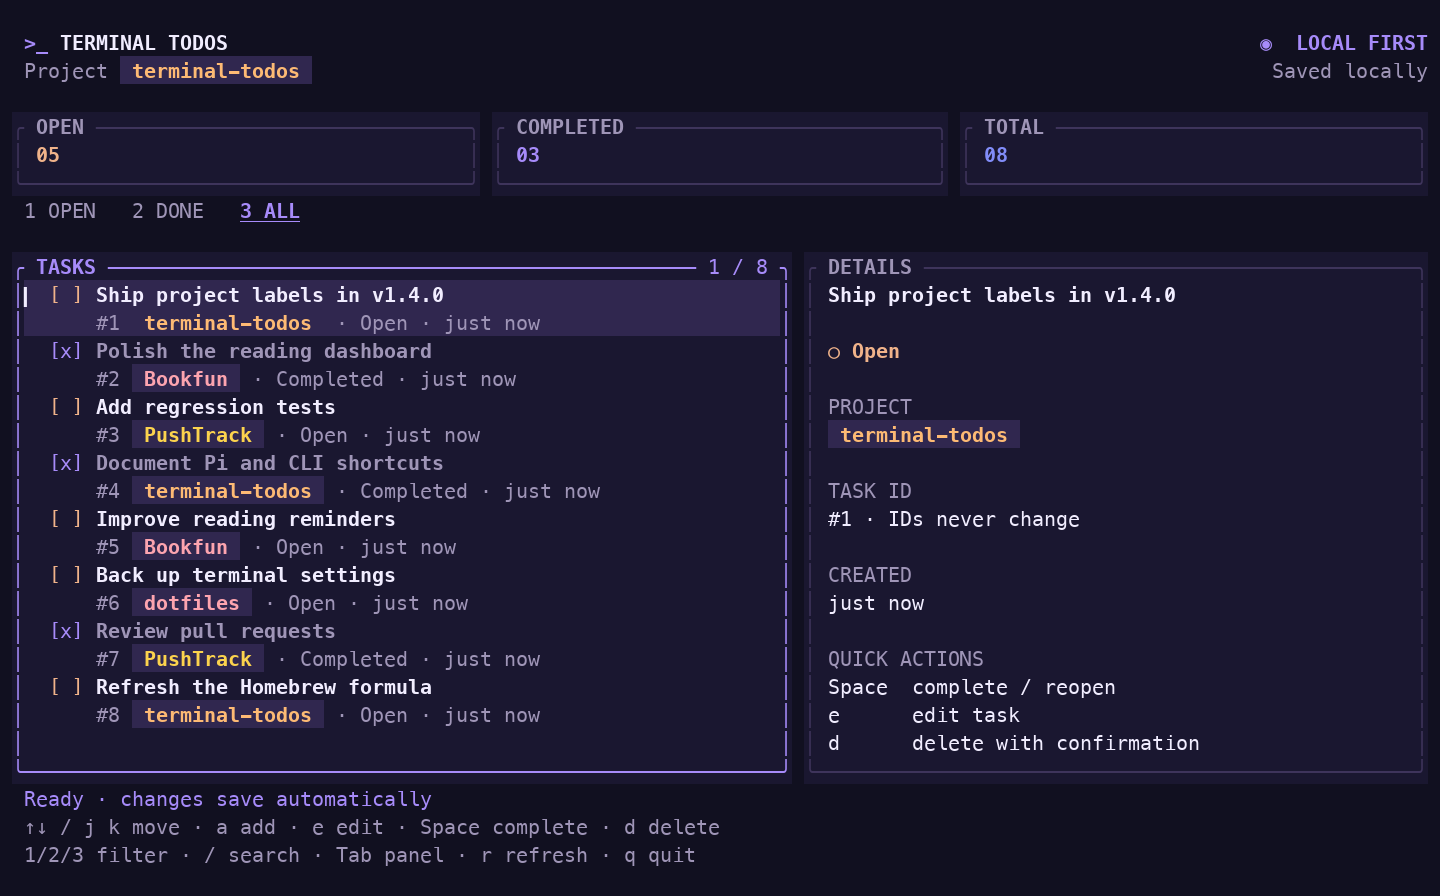
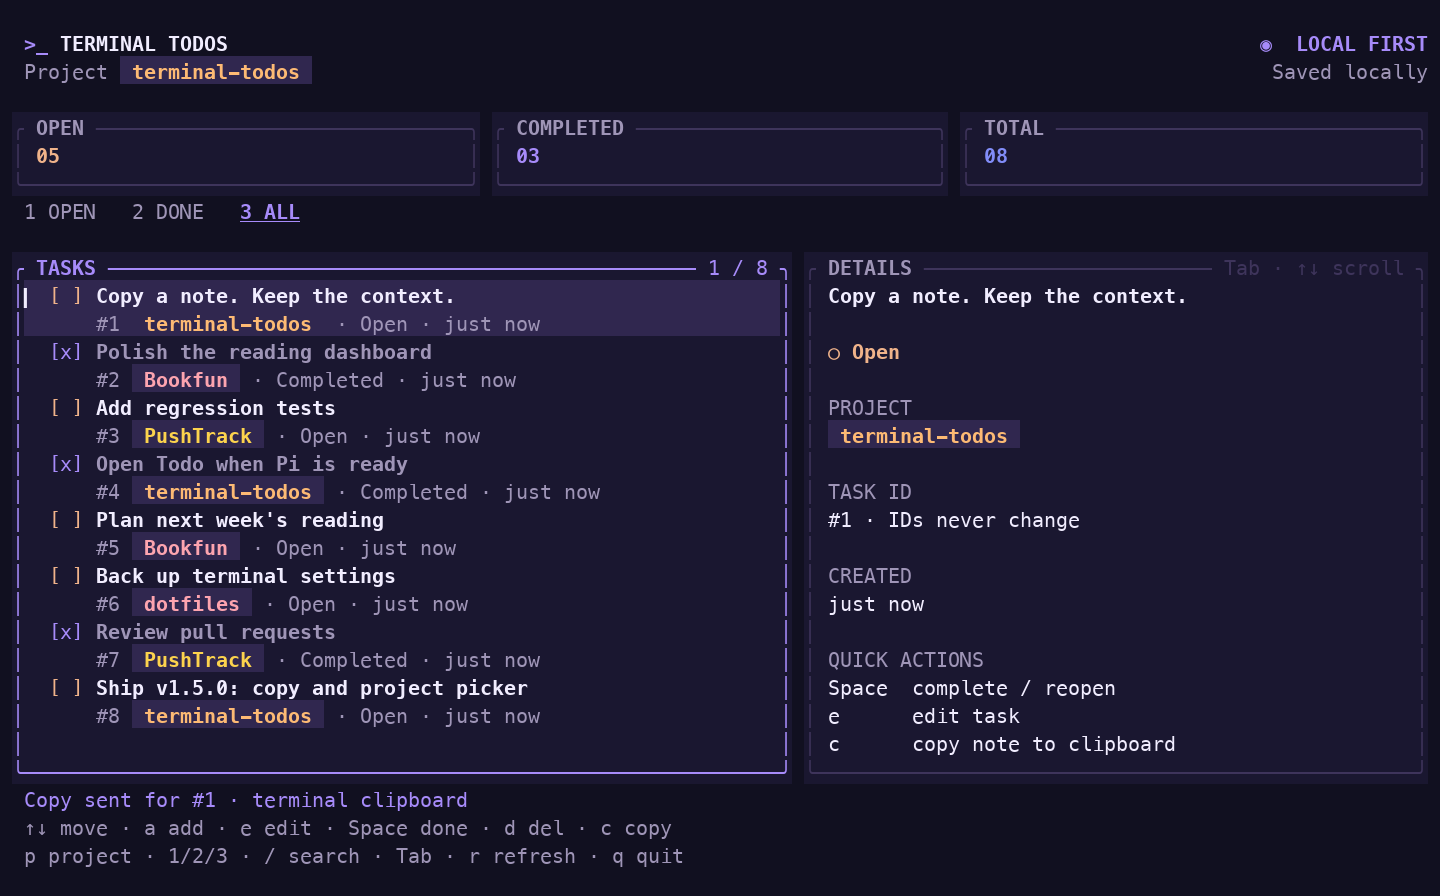
docs: spotlight v1.5.0 with live screenshots

diff --git a/README.md b/README.md
@@ -6,9 +6,17 @@
 
 <p align="center">A simple, keyboard-first todo app for your terminal. Built with Rust.</p>
 
-![Terminal Todos dashboard showing colored project labels across four sample projects](assets/dashboard.png)
+## New in v1.5.0
 
-**New in v1.5.0:** press `c` to copy a note, `p` to choose another project without changing folders, or `/todo` to approve waiting for a busy Pi turn. Project labels introduced in v1.4.0 still keep your notes in context, with consistent colored badges—inside Pi or from the CLI.
+**Copy a note. Choose its project. Stay in the terminal.**
+
+- **`c` — copy the full note.** Send the selected note's text to your terminal clipboard (OSC52), not just the visible snippet.
+- **`p` — choose a project without changing folders.** Pick an existing name or enter a new one for subsequent notes. Existing notes keep their labels.
+- **`/todo` — let Pi finish first.** Approve waiting for a busy turn, then open the dashboard without automatically interrupting Pi.
+
+Project context stays visible through consistent colored badges, inside Pi and in the standalone app.
+
+![Terminal Todos v1.5.0 dashboard showing a full-note copy request, c/p shortcuts and colored project labels](assets/dashboard.png)
 
 ## Use inside Pi
 
@@ -159,6 +167,8 @@ Editing or completing a task from another project preserves its original label. 
 Press `p`, use `↑`/`↓` or `j`/`k`, then `Enter`. The list contains unique names from saved tasks, the automatically detected folder, and your current selection. **New project...** lets you enter a name that has no notes yet; no `~/Projects` scan or directory change is needed. `Esc` cancels.
 
 This changes the project for **subsequent additions in this dashboard session only**. Existing notes are never relabeled. Reopening Todo uses the working directory again; CLI additions still detect their own working directory.
+
+![The p project picker in Terminal Todos v1.5.0, with Bookfun selected and an option to enter a new project name](assets/project-picker.png)
 
 ## Data and privacy
 
